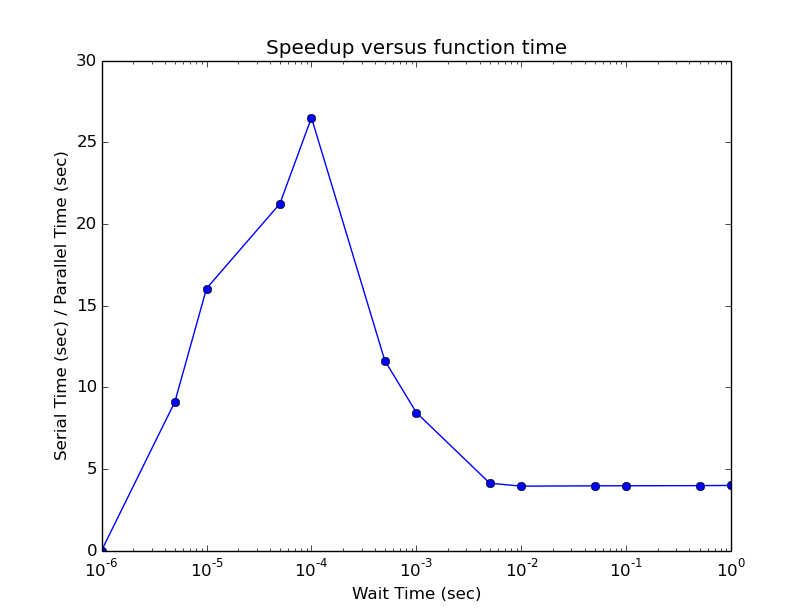
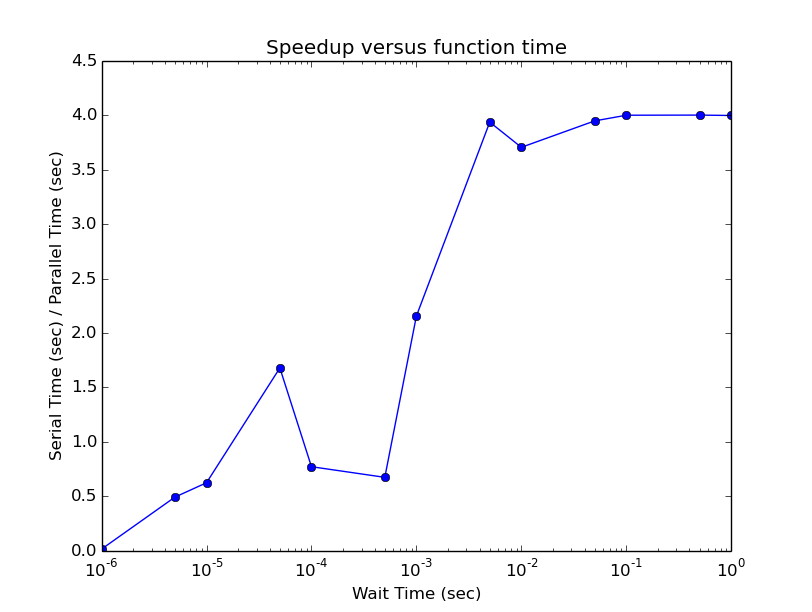
HW0 finished

diff --git a/HW0/P5/P5.py b/HW0/P5/P5.py
@@ -1,22 +1,13 @@
 import matplotlib.pyplot as plt
 import numpy as np
-
-# Compute the time with an infinite number of cashier
-def inf_count(N):
-	# Find the higher power in the binary representation
-	rep = 1
-	power = 0
-
-	while N > rep:
-		rep *= 2
-		power += 1
-	return power
+import math
 
 # Ploting the result
 N = 1000
 t = np.arange(1, N, 1)
+epsilon = 10**(-6)  # Used to make the log discrete
 
-plt.plot(t, [inf_count(ti) for ti in t], '--r', label='Infinite number of Cashiers')
+plt.plot(t, [math.floor(math.log(ti, 2) - epsilon) + 1 for ti in t], '--r', label='Infinite number of Cashiers')
 plt.plot(t, t -1, '--g', label='One cashier')
 plt.legend()
 plt.show()

diff --git a/HW0/P6/P6B.py b/HW0/P6/P6B.py
@@ -3,6 +3,7 @@ import numpy as np
 import time
 import matplotlib.pyplot as plt
 
+
 # Sleep for t seconds
 def burnTime(t):
     time.sleep(t)
@@ -26,9 +27,10 @@ if __name__ == '__main__':
         # Compute jobs serially and in parallel
         # Use time.time() to compute the elapsed time for each
         start_ite_time = time.time()
-        for k in xrange(16):
+        for k in range(N):
             burnTime(t)
         serialTime = time.time() - start_ite_time
+
         start_par_time = time.time()
         pool.map(burnTime, t * np.ones((N,)))
         parallelTime = time.time() - start_par_time

diff --git a/HW0/P6/P6A.py b/HW0/P6/P6A.py
@@ -11,5 +11,5 @@ if __name__ == '__main__':
     pool = mp.Pool(4)  # Create a pool of 4 processes
 
     # Apply burnTime to this list of "job numbers" using the pool
-    result = pool.map(burnTime, range(10))
+    result = pool.map(burnTime(1), range(10))
     print(result)
